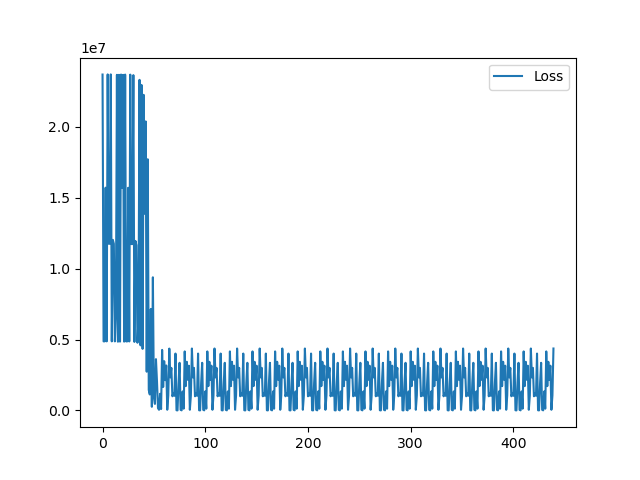
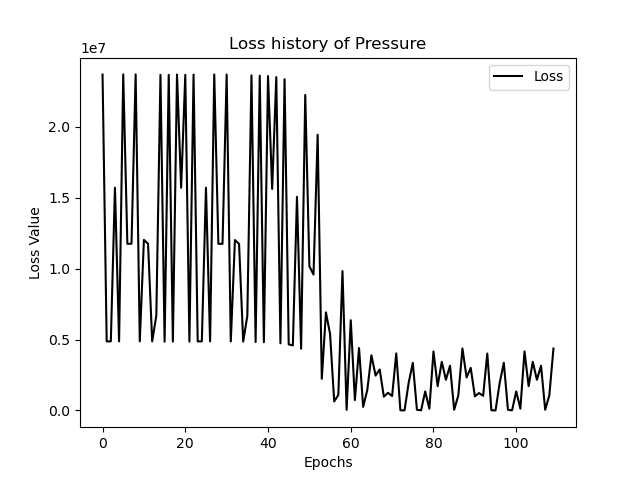
improve 'df.plot()'

diff --git a/FNN/FNN_P.py b/FNN/FNN_P.py
@@ -158,7 +158,7 @@ class Regression(nn.Module):
 
     self.counter += 1
 
-    if(self.counter%5 == 0):  # 对每个算例数据，记录损失值
+    if(self.counter%10 == 0):  # 对每个算例数据，记录损失值
       print(f"{self.counter} Cases Trained ...")
       pass
 
@@ -171,7 +171,10 @@ class Regression(nn.Module):
   # 打印损失函数
   def plot_progress(self):
     df = pandas.DataFrame(self.progress, columns=["Loss"])
-    ax = df.plot()
+    ax = df.plot( title  = "Loss history of Pressure",\
+                  color  = "black",                   \
+                  xlabel = "Epochs",                  \
+                  ylabel = "Loss Value")
     ax.figure.savefig("lossHistory.png")
     pass
 
@@ -179,9 +182,12 @@ class Regression(nn.Module):
 
 R = Regression()
 
+# init the model weights
+#torch.nn.init.kaiming_normal_(R.model) # illegal
+
 # train the model
 
-epochs = 20
+epochs = 5
 
 for i in range(epochs):
   print("Training Epoch", i+1, "of", epochs)
